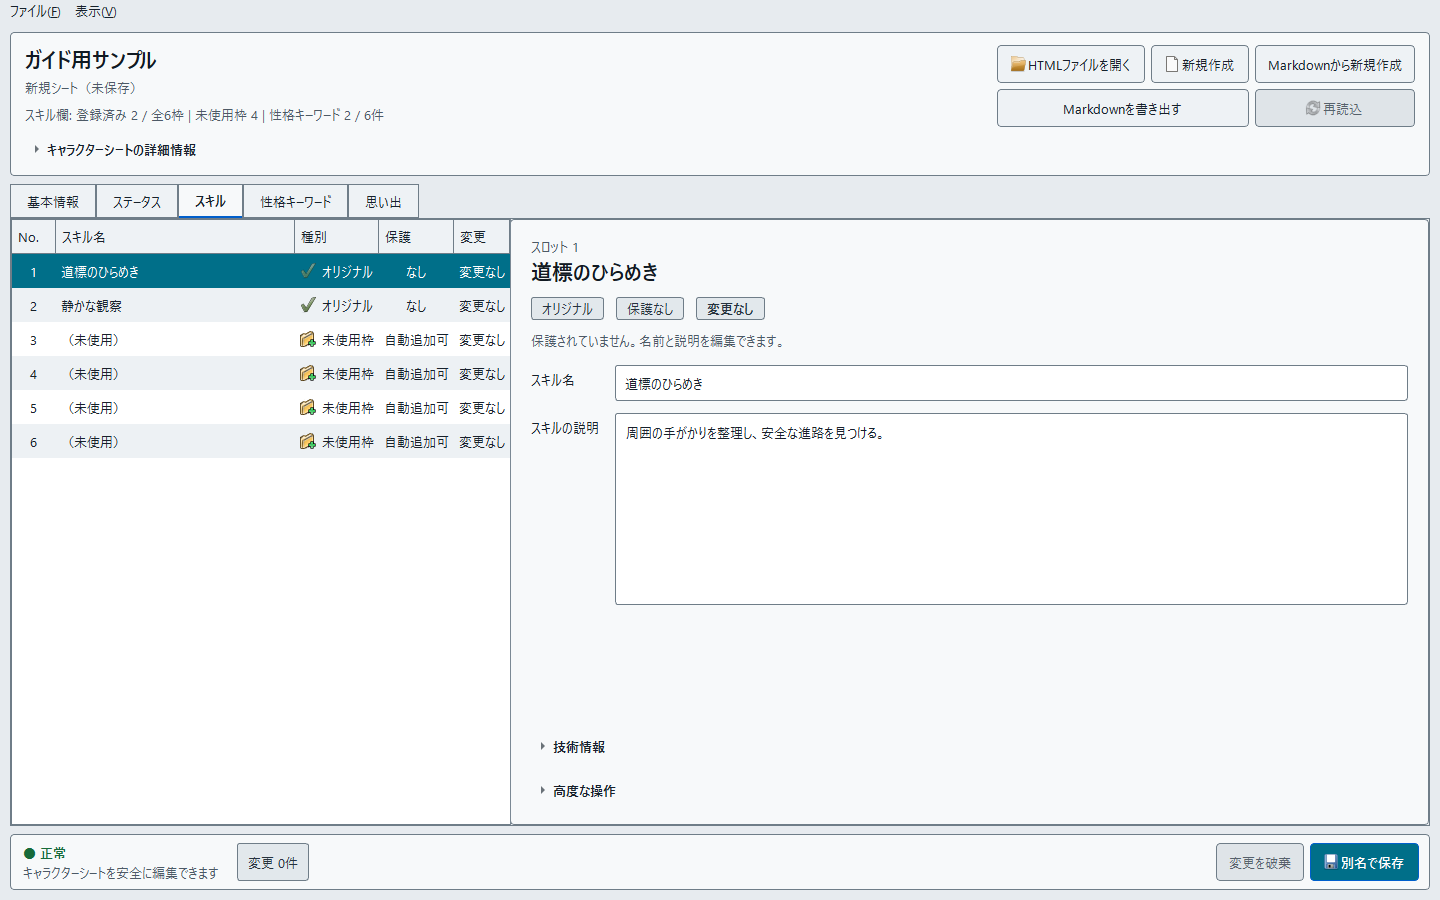
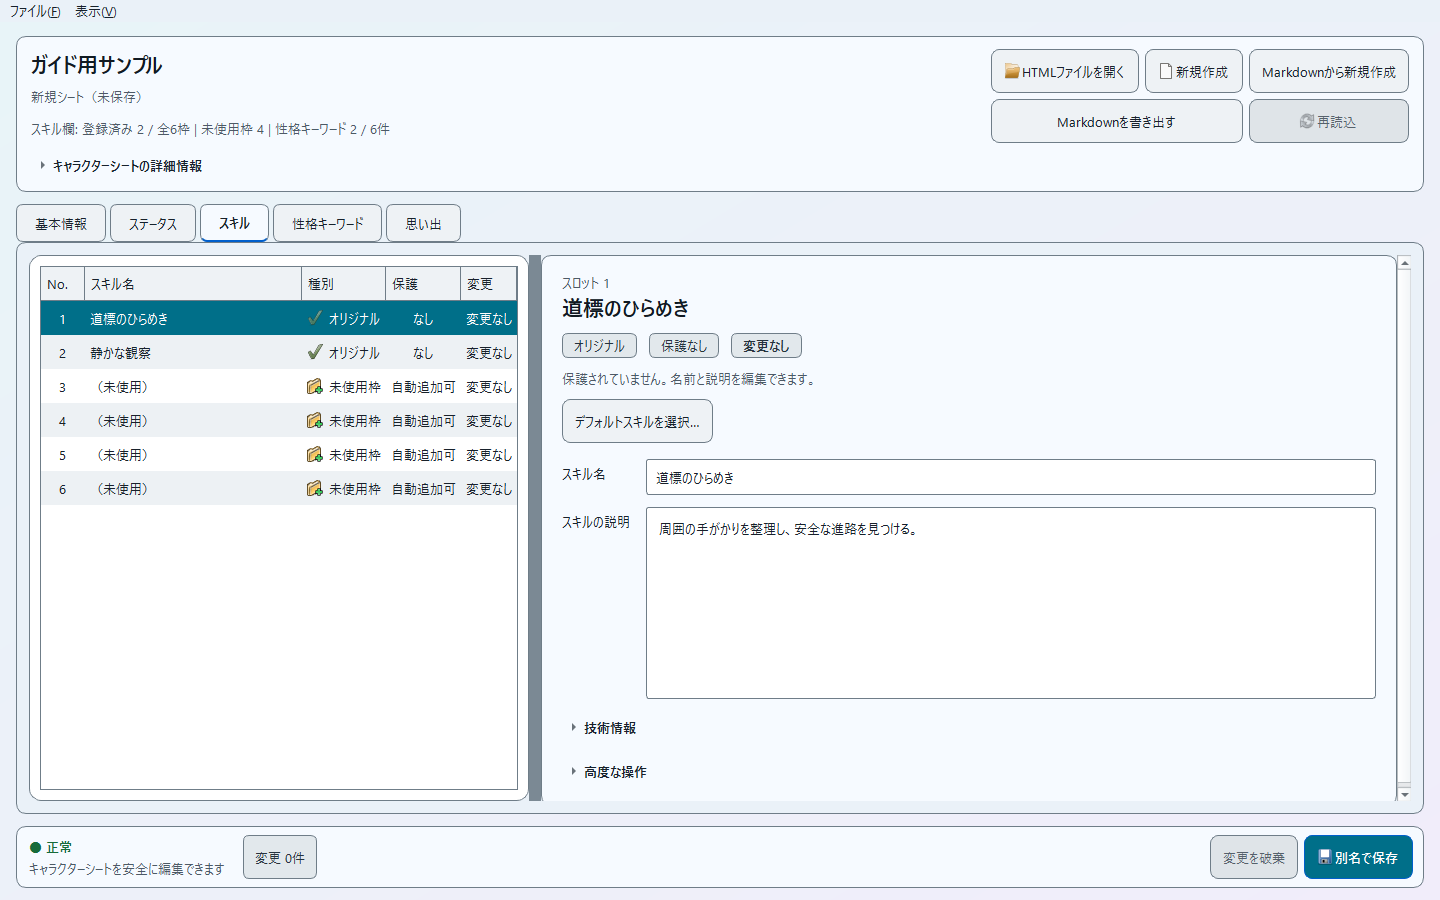
Prepare v2.2.0 release and refresh user guide

Changed region(s): [[0.0, 0.0311, 1.0, 0.9956], [0.6875, 0.0311, 1.0, 0.1556]]

diff --git a/docs/user-guide/index.html b/docs/user-guide/index.html
@@ -163,7 +163,7 @@
       <p class="eyebrow">オフライン利用ガイド</p>
       <h1>Saga &amp; Seeker<br>キャラクターシートエディター</h1>
       <p>Saga &amp; Seeker のキャラクターシートを開き、内容を確認・編集して、新しいHTMLとして保存するためのガイドです。AIとのやり取りに使えるMarkdown機能についても説明します。</p>
-      <span class="version">アプリケーションバージョン 2.1.0</span>
+      <span class="version">アプリケーションバージョン 2.2.0</span>
     </div>
   </header>
 
@@ -261,7 +261,7 @@
 
     <section id="markdown" aria-labelledby="markdown-heading">
       <h2 id="markdown-heading">AI向けMarkdown形式 v2</h2>
-      <p>AI向けMarkdown形式 v2は、キャラクターシートの内容をAIへ渡したり、AIで編集した内容から新しいシートを作ったりするための中間形式です。アプリケーションバージョン 2.1.0とは別に管理されています。</p>
+      <p>AI向けMarkdown形式 v2は、キャラクターシートの内容をAIへ渡したり、AIで編集した内容から新しいシートを作ったりするための中間形式です。アプリケーションバージョン 2.2.0とは別に管理されています。</p>
 
       <div class="grid">
         <div class="card">
@@ -342,7 +342,7 @@
 
       <details>
         <summary>プロフィールの改行が消えました</summary>
-        <p>アプリケーションバージョン 2.1.0では、プロフィールHTMLの <code>&lt;br&gt;</code> を改行として扱います。古い実行ファイルを使っていないか確認してください。</p>
+        <p>アプリケーションバージョン 2.1.0以降では、プロフィールHTMLの <code>&lt;br&gt;</code> を改行として扱います。古い実行ファイルを使っていないか確認してください。</p>
       </details>
 
       <details>
@@ -352,7 +352,7 @@
 
       <details>
         <summary>画面が見づらいです</summary>
-        <p>メニューの「表示」→「外観」から、ライト、ダーク、ハイコントラストを選べます。</p>
+        <p>メニューの「表示」→「外観」でライト、ダーク、ハイコントラストを選べます。「表示」→「背景」で背景画像の有無を選べます。ハイコントラストでは、設定が「背景あり」でも画像は表示されません。</p>
       </details>
     </section>
 

diff --git a/scripts/generate_manual_game_check.py b/scripts/generate_manual_game_check.py
@@ -111,7 +111,7 @@ def generate(destination: Path) -> tuple[Path, Path]:
 
 ## ゲームから再出力した後
 
-- [ ] 再出力HTMLをアプリケーションバージョン 2.1.0で開ける
+- [ ] 再出力HTMLをアプリケーションバージョン 2.2.0で開ける
 - [ ] 基本設定の先頭・空行・末尾の意味が維持される
 - [ ] 読み取り専用にならない
 - [ ] 元の提出HTMLは変更されていない

diff --git a/tests/test_user_guide.py b/tests/test_user_guide.py
@@ -126,7 +126,7 @@ def test_canonical_guide_is_offline_semantic_and_references_exact_assets() -> No
         assert not image["src"].startswith(("/", "\\"))
         assert (GUIDE_DIR / image["src"]).is_file()
 
-    assert "アプリケーションバージョン 2.1.0" in text
+    assert "アプリケーションバージョン 2.2.0" in text
     assert "AI向けMarkdown形式 v2" in text
     assert "復元されません" in text
 

diff --git a/tests/test_version_consistency.py b/tests/test_version_consistency.py
@@ -8,7 +8,7 @@ from saga_seeker_skill_editor import __version__
 
 
 ROOT = Path(__file__).resolve().parents[1]
-EXPECTED_VERSION = "2.1.0"
+EXPECTED_VERSION = "2.2.0"
 
 
 def test_application_version_is_consistent_across_current_release_metadata() -> None:

diff --git a/tests/test_release_packaging.py b/tests/test_release_packaging.py
@@ -10,7 +10,7 @@ import pytest
 
 
 ROOT = Path(__file__).resolve().parents[1]
-VERSION = "2.1.0"
+VERSION = "2.2.0"
 
 
 def _load_module():

diff --git a/src/saga_seeker_skill_editor/__init__.py b/src/saga_seeker_skill_editor/__init__.py
@@ -2,4 +2,4 @@
 
 __all__ = ["__version__"]
 
-__version__ = "2.1.0"
+__version__ = "2.2.0"

diff --git a/docs/user-guide/SCREENSHOT_AUDIT.md b/docs/user-guide/SCREENSHOT_AUDIT.md
@@ -5,7 +5,7 @@
 
 ## 監査条件
 
-- 実施日: 2026-08-03
+- 実施日: 2026-09-17
 - OS: Windows 11
 - 表示倍率: 100%
 - Qtプラットフォーム: Windows通常表示
@@ -14,12 +14,11 @@
 - データセット: `ANON-GUIDE-001`（匿名合成データ）
 - 撮影範囲: Qtウィジェット単体
 - 状態生成: 実製品操作（取込プレビュー、読込、別名保存、Markdown書出し）
-- 今回の更新: 20枚を再生成して差分を比較し、自動プレビュー表示で変化した
-  8枚だけを更新
+- 今回の更新: UI刷新後の20枚をすべて再生成し、匿名性・状態・判読性を確認
 
 ## 目視匿名性確認
 
-正式画像生成後に更新する。各画像について、合成データだけであること、
+各画像について、合成データだけであること、
 利用者名・ローカルパス・デスクトップ・タスクバー・通知・他アプリがないこと、
 状態と文字の判読性を確認する。
 
@@ -48,9 +47,10 @@
 
 ## 監査結果
 
-2026-08-03に20枚をWindows通常表示で再生成し、既存画像との差分を比較した。
-自動プレビュー表示で変化した8枚を一覧および必要な原寸表示で目視し、差分の
-なかった12枚は2026-07-31の監査済み画像を維持した。実在の人物名・キャラクター名、
-利用者名、ホームディレクトリ、ローカルパス、デスクトップ、タスクバー、通知、
-他アプリは写っていない。ファイル名は固定匿名名だけで、ランダムな一時パスも
-表示されていない。全画像が意図した状態で判読可能であるため承認する。
+2026-09-17に20枚をWindows通常表示、Fusion、1440×900で再生成した。
+全20枚を一覧で、基本情報・スキル・性格キーワード・思い出・ダーク・ハイコントラスト・
+ステータスを原寸でも確認した。実在の人物名・キャラクター名、利用者名、
+ホームディレクトリ、ローカルパス、デスクトップ、タスクバー、通知、他アプリは
+写っていない。ファイル名は固定匿名名だけで、ランダムな一時パスも表示されない。
+全画像が意図した状態で判読可能であり、背景なしの既定表示と3テーマの画面に
+一致するため承認する。背景ありの比較は `docs/ui-review/background-comparison/` に記録する。

diff --git a/docs/HANDOFF.md b/docs/HANDOFF.md
@@ -6,8 +6,8 @@ Read `AGENTS.md` and `CONTEXT.md` first, then inspect the ADRs linked below.
 ## Baseline
 
 - Product: Saga & Seeker Skill Editor
-- Application version: `2.1.0`
-- Release series represented by this source tree: `v2.1.0`
+- Application version: `2.2.0`
+- Release series represented by this source tree: `v2.2.0`
 - Repository: `https://github.com/shirogitsune-lab/saga-seeker-skill-editor`
 - Default branch: `main`
 - License: MIT for the source code, bundled canary artwork, and distributions
@@ -92,7 +92,7 @@ The original input file is not an in-place editing target. Safety and preservati
 ### Markdown Interchange
 
 - Writes canonical AI-oriented Markdown format v2. Application version
-  `2.1.0` and format version `2` are separate identifiers.
+  `2.2.0` and format version `2` are separate identifiers.
 - Exports the current rendered draft in-process; it does not launch or depend
   on the standalone Rust converter executable.
 - Preserves the standalone converter's important semantic output, including
@@ -279,7 +279,7 @@ The byte-preserving model, GUI, and save workflow are implemented:
 - Save validation compares every load-time read-only section's JSON bytes,
   HTML bytes, diagnostic codes, severity, counts, correspondence, and reason.
   Editable sections must remain valid after rendering.
-- The package metadata is `2.1.0`; the GUI title is
+- The package metadata is `2.2.0`; the GUI title is
   `Saga & Seeker キャラクターシートエディター`. Executable, repository, and
   Python-package names remain unchanged.
 - PyInstaller onedir and onefile definitions include the default WebP. The
@@ -417,6 +417,7 @@ The game-derived names and definition data in `data/personality_keywords.csv` an
 
 ## Current Maintenance State
 
+- `v2.2.0` updates the visual layout of all five editing tabs and adds the persisted background none/image choice. Light and dark use the blurred garden canvas; high contrast keeps opaque surfaces without the image.
 - `v2.1.0` adds bundled default-skill selection, pending edit-before-save behavior, exact DEFAULT/ORIGINAL save branching, and multiline LF normalization while retaining the existing protected-default replacement flow.
 - The `v2.0.2` changes were merged into `main` by PR #3. The main branch accepts
   the game's pipe-encoded memory tags while preserving genuine mismatch

diff --git a/README.md b/README.md
@@ -15,7 +15,7 @@ Saga & SeekerのキャラクターシートHTMLを新規作成し、基本情報
 配布形式は次の2種類です。
 
 - `onedir`: **推奨形式です。** EXE、実行に必要なファイル、自己完結型の`使い方.html`をまとめたZIPです。ZIPを展開し、フォルダごと使用してください。
-- `onefile`: エディター単体のEXEです。1ファイルだけで使用したい場合に選べます。利用ガイドはReleaseの`SagaSeekerSkillEditor-v2.1.0-guide.html`を別途ダウンロードできます。
+- `onefile`: エディター単体のEXEです。1ファイルだけで使用したい場合に選べます。利用ガイドはReleaseの`SagaSeekerSkillEditor-v2.2.0-guide.html`を別途ダウンロードできます。
 
 このアプリケーションはローカルファイルだけを処理し、ネットワーク通信を行いません。
 
@@ -70,7 +70,7 @@ PySide6による5タブ構成の画面です。
 
 「AI向けMarkdownを書き出す」は、現在の編集中ドラフトから次をUTF-8の
 **AI向けMarkdown形式 v2**へ出力します。これはアプリケーションバージョン
-`2.1.0`とは別の形式番号です。
+`2.2.0`とは別の形式番号です。
 
 - キャラクター名、プロフィール7項目
 - 性格キーワードと表示順
